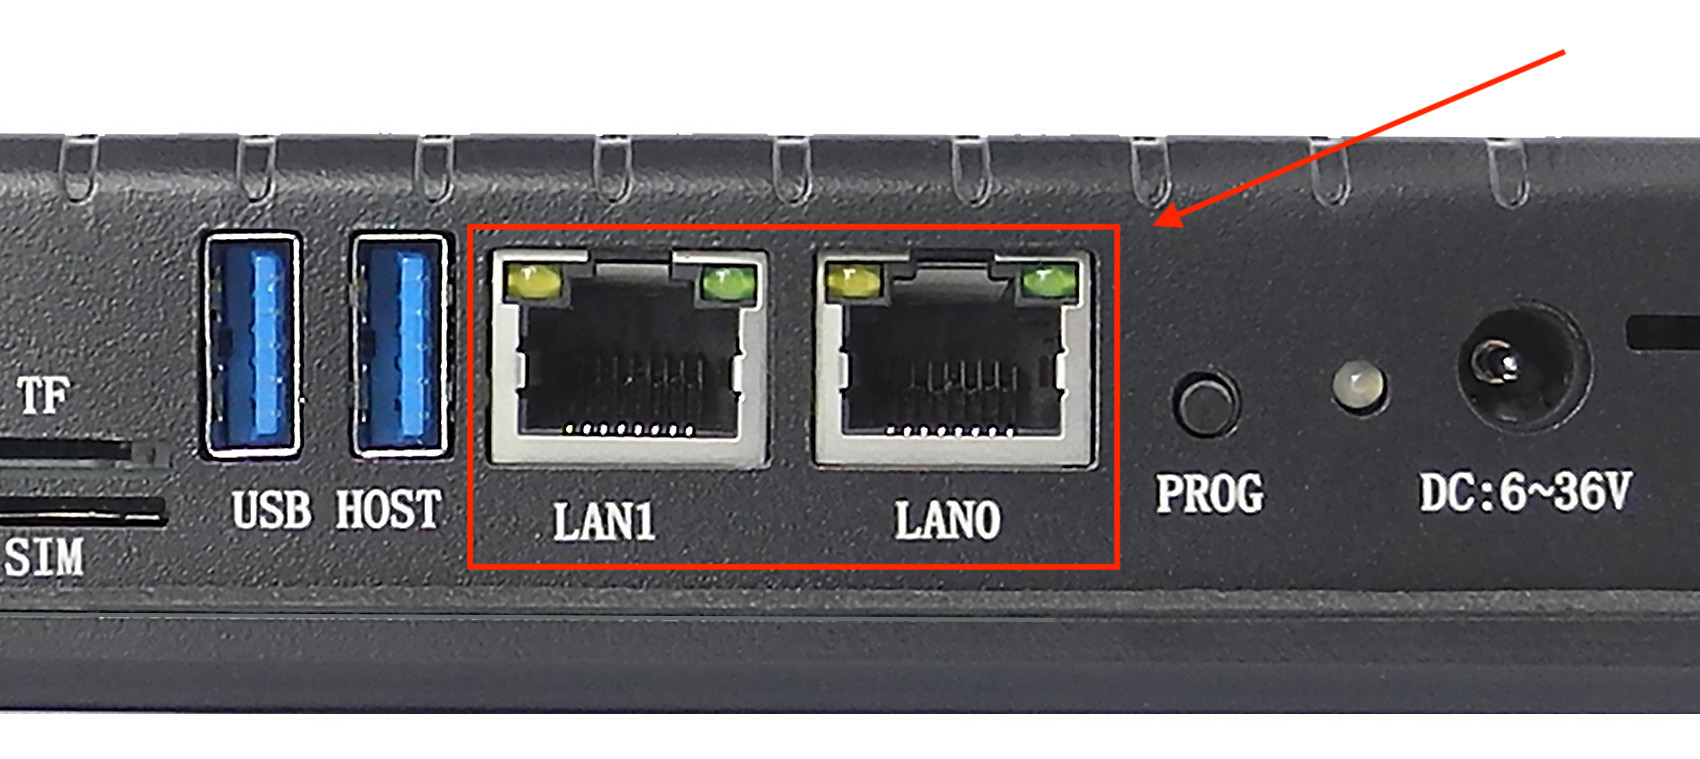
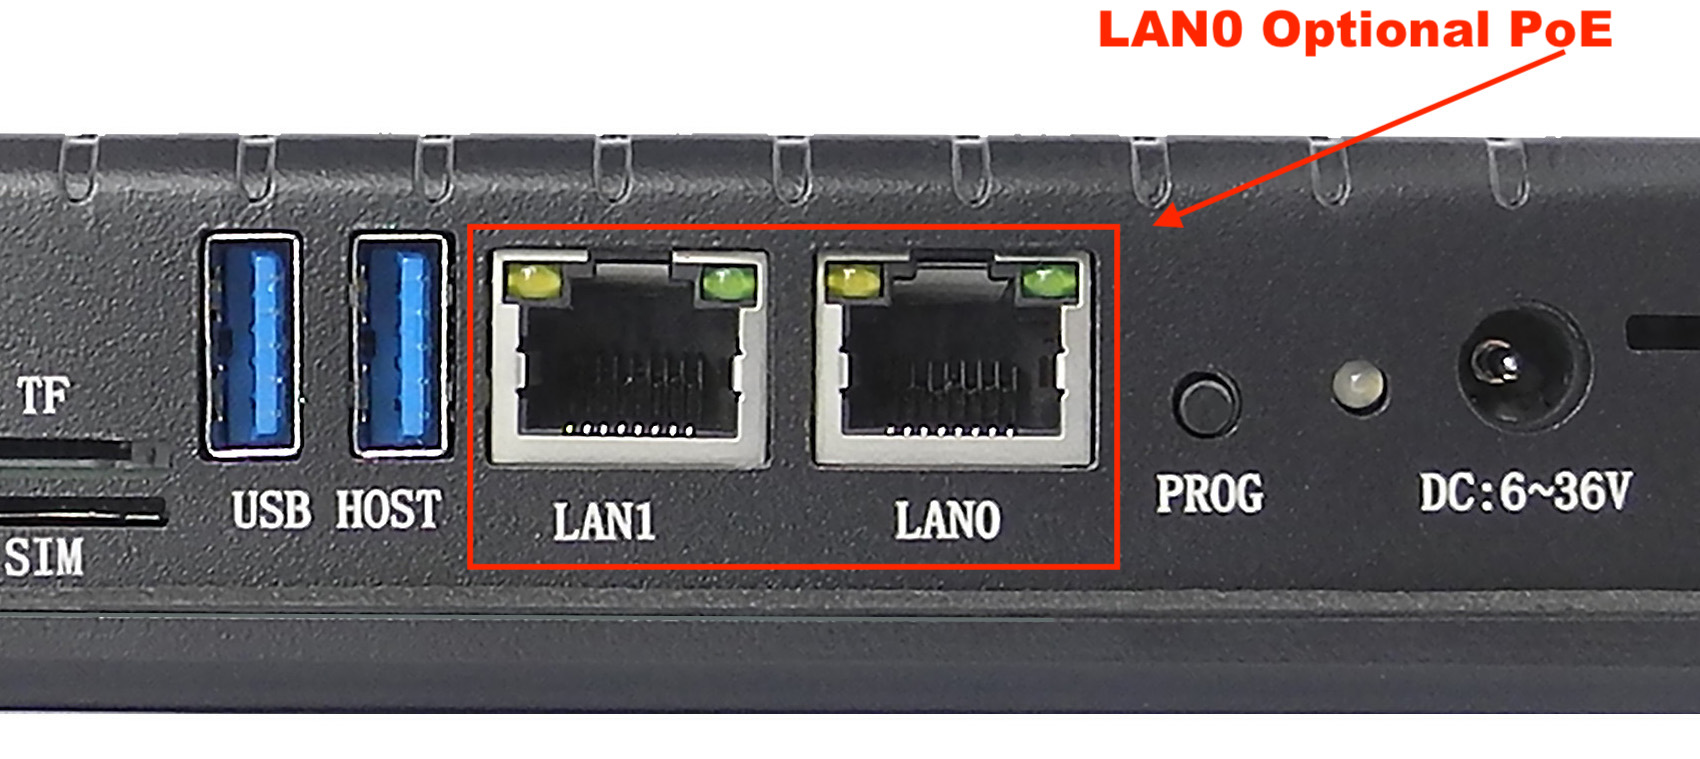
Update PoE for CM4 products.

Changed region(s): [[0.6235, 0.0, 0.9665, 0.0909]]

diff --git a/docs/source/PCs/Pi/AIO/Manuals/Hardware/CS12800RA4101A.rst b/docs/source/PCs/Pi/AIO/Manuals/Hardware/CS12800RA4101A.rst
@@ -20,7 +20,7 @@
 
 .. |USB| replace:: 2 x USB 2.0 Host, 1 x USB TYPE-C
 
-.. |LAN| replace:: 1 x Channel Giga LAN
+.. |LAN| replace:: 1 x Giga LAN, **PoE(Power over Ethernet) is optional**
 
 .. |GPIO| replace:: Two 5V Logic GPIO Outputs, can be used as Wiegand signal
 
@@ -172,14 +172,15 @@ There are 2 x Type A **USB HOST connectors** and 1 x **USB TYPE-C Connector** on
 LAN Connectors
 ---------------
 
-**LAN (RJ45) connector** provides Ethernet connectivity over standardized Ethernet cables as shown the figure below. The integrated Ethernet interface supports
-up to 1 Gbps data throughput. These Giga LAN signals come from the CM4 module directly.
+**LAN (RJ45) connector** provides Ethernet connectivity over standardized Ethernet cables as shown the figure below. The integrated Ethernet interface supports up to 1 Gbps data throughput. These Giga LAN signals come from the CM4 module directly.
+
+The LAN can be customized to support PoE (Power over Ethernet), **optional**.
 
 .. figure:: /Media/Pi/AIO/CS12800RA4101A/101-LAN.jpeg
   :align: center
   :figclass: align-center
 
-  *RJ45 LAN Connectors*
+  *RJ45 LAN Connector*
 
 .. note::
 

diff --git a/docs/source/PCs/Pi/A72/Manuals/Hardware/CS12720RA4050-C121.rst b/docs/source/PCs/Pi/A72/Manuals/Hardware/CS12720RA4050-C121.rst
@@ -56,7 +56,7 @@
 
 .. |USB| replace:: 2 x USB 2.0 Host, 1 x Type-C
 
-.. |LAN| replace:: 1 x Channel Giga LAN
+.. |LAN| replace:: 1 x Giga LAN
 
 .. |TF_boot| replace:: The SD is used for memory extension. It can’t be used for system boot-up.
 

diff --git a/docs/source/PCs/Pi/A72/Manuals/Hardware/CS10600RA4070.rst b/docs/source/PCs/Pi/A72/Manuals/Hardware/CS10600RA4070.rst
@@ -62,7 +62,7 @@
 
 .. |USB| replace:: 2 x USB 2.0 Host, 1 x USB OTG
 
-.. |LAN| replace:: 1 x Channel Giga LAN
+.. |LAN| replace:: 1 x Giga LAN
 
 .. |GPIO| replace:: 8 Channels, 4 Input, 4 Output
 
